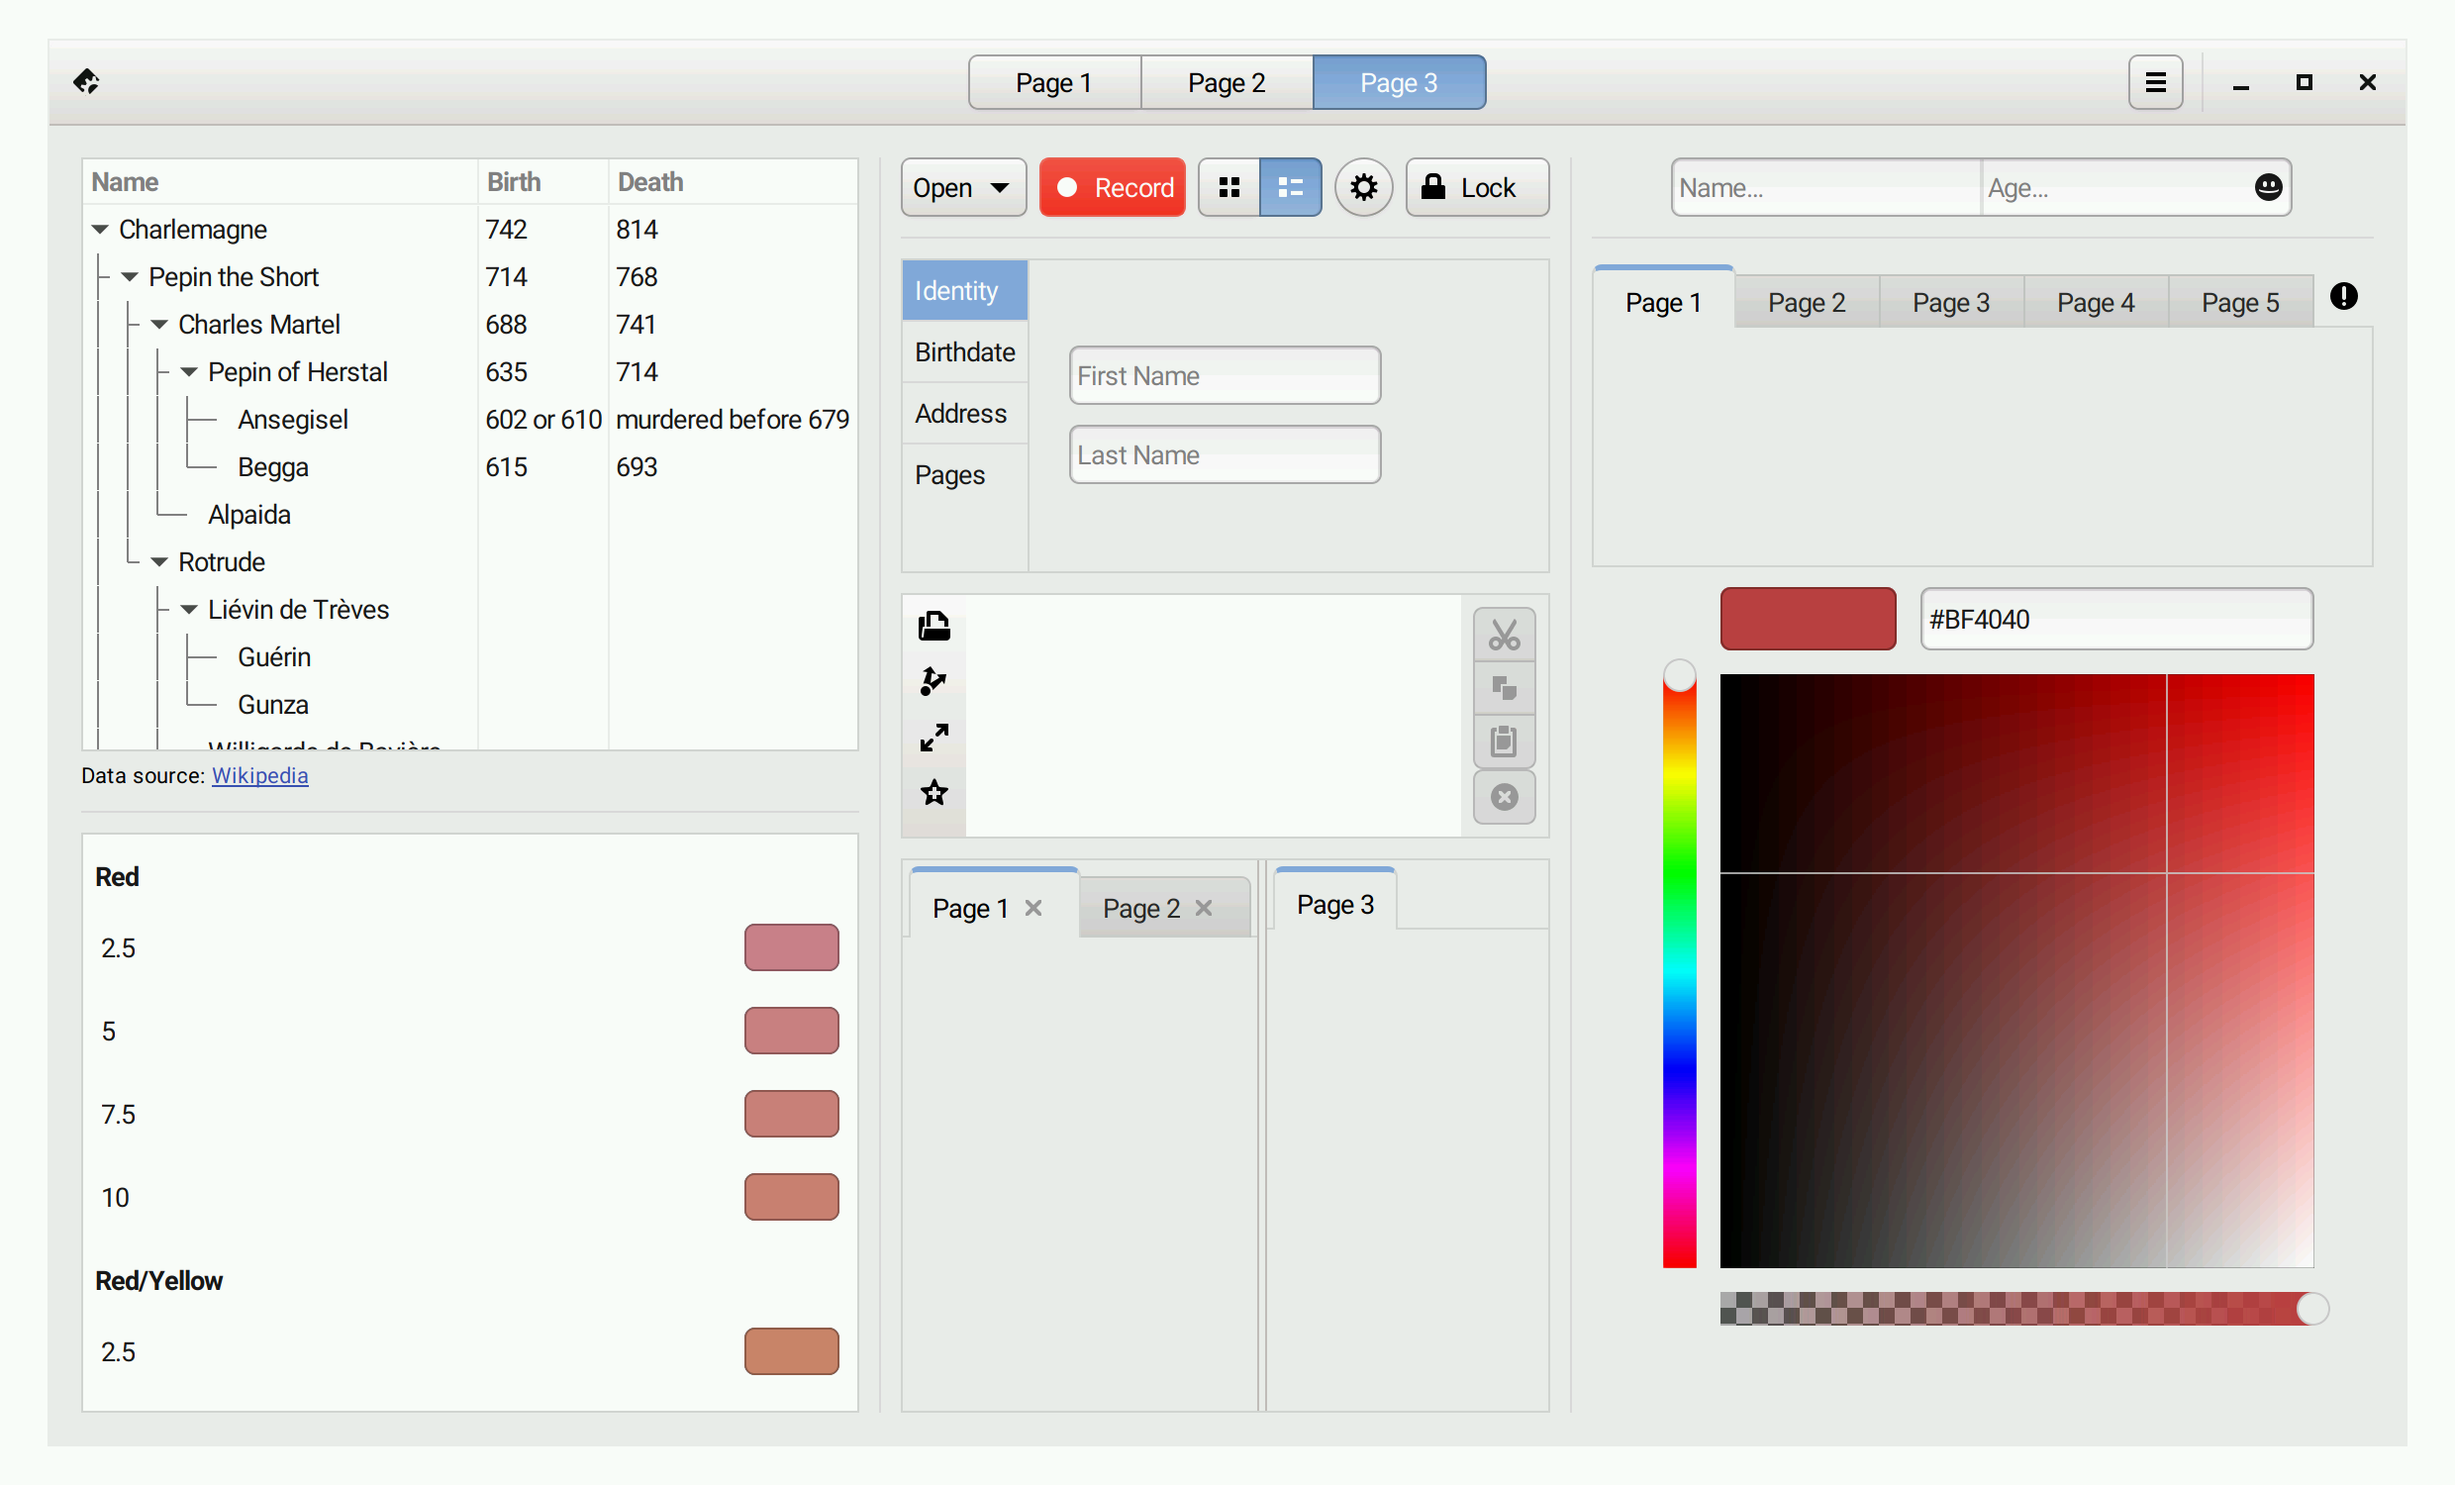
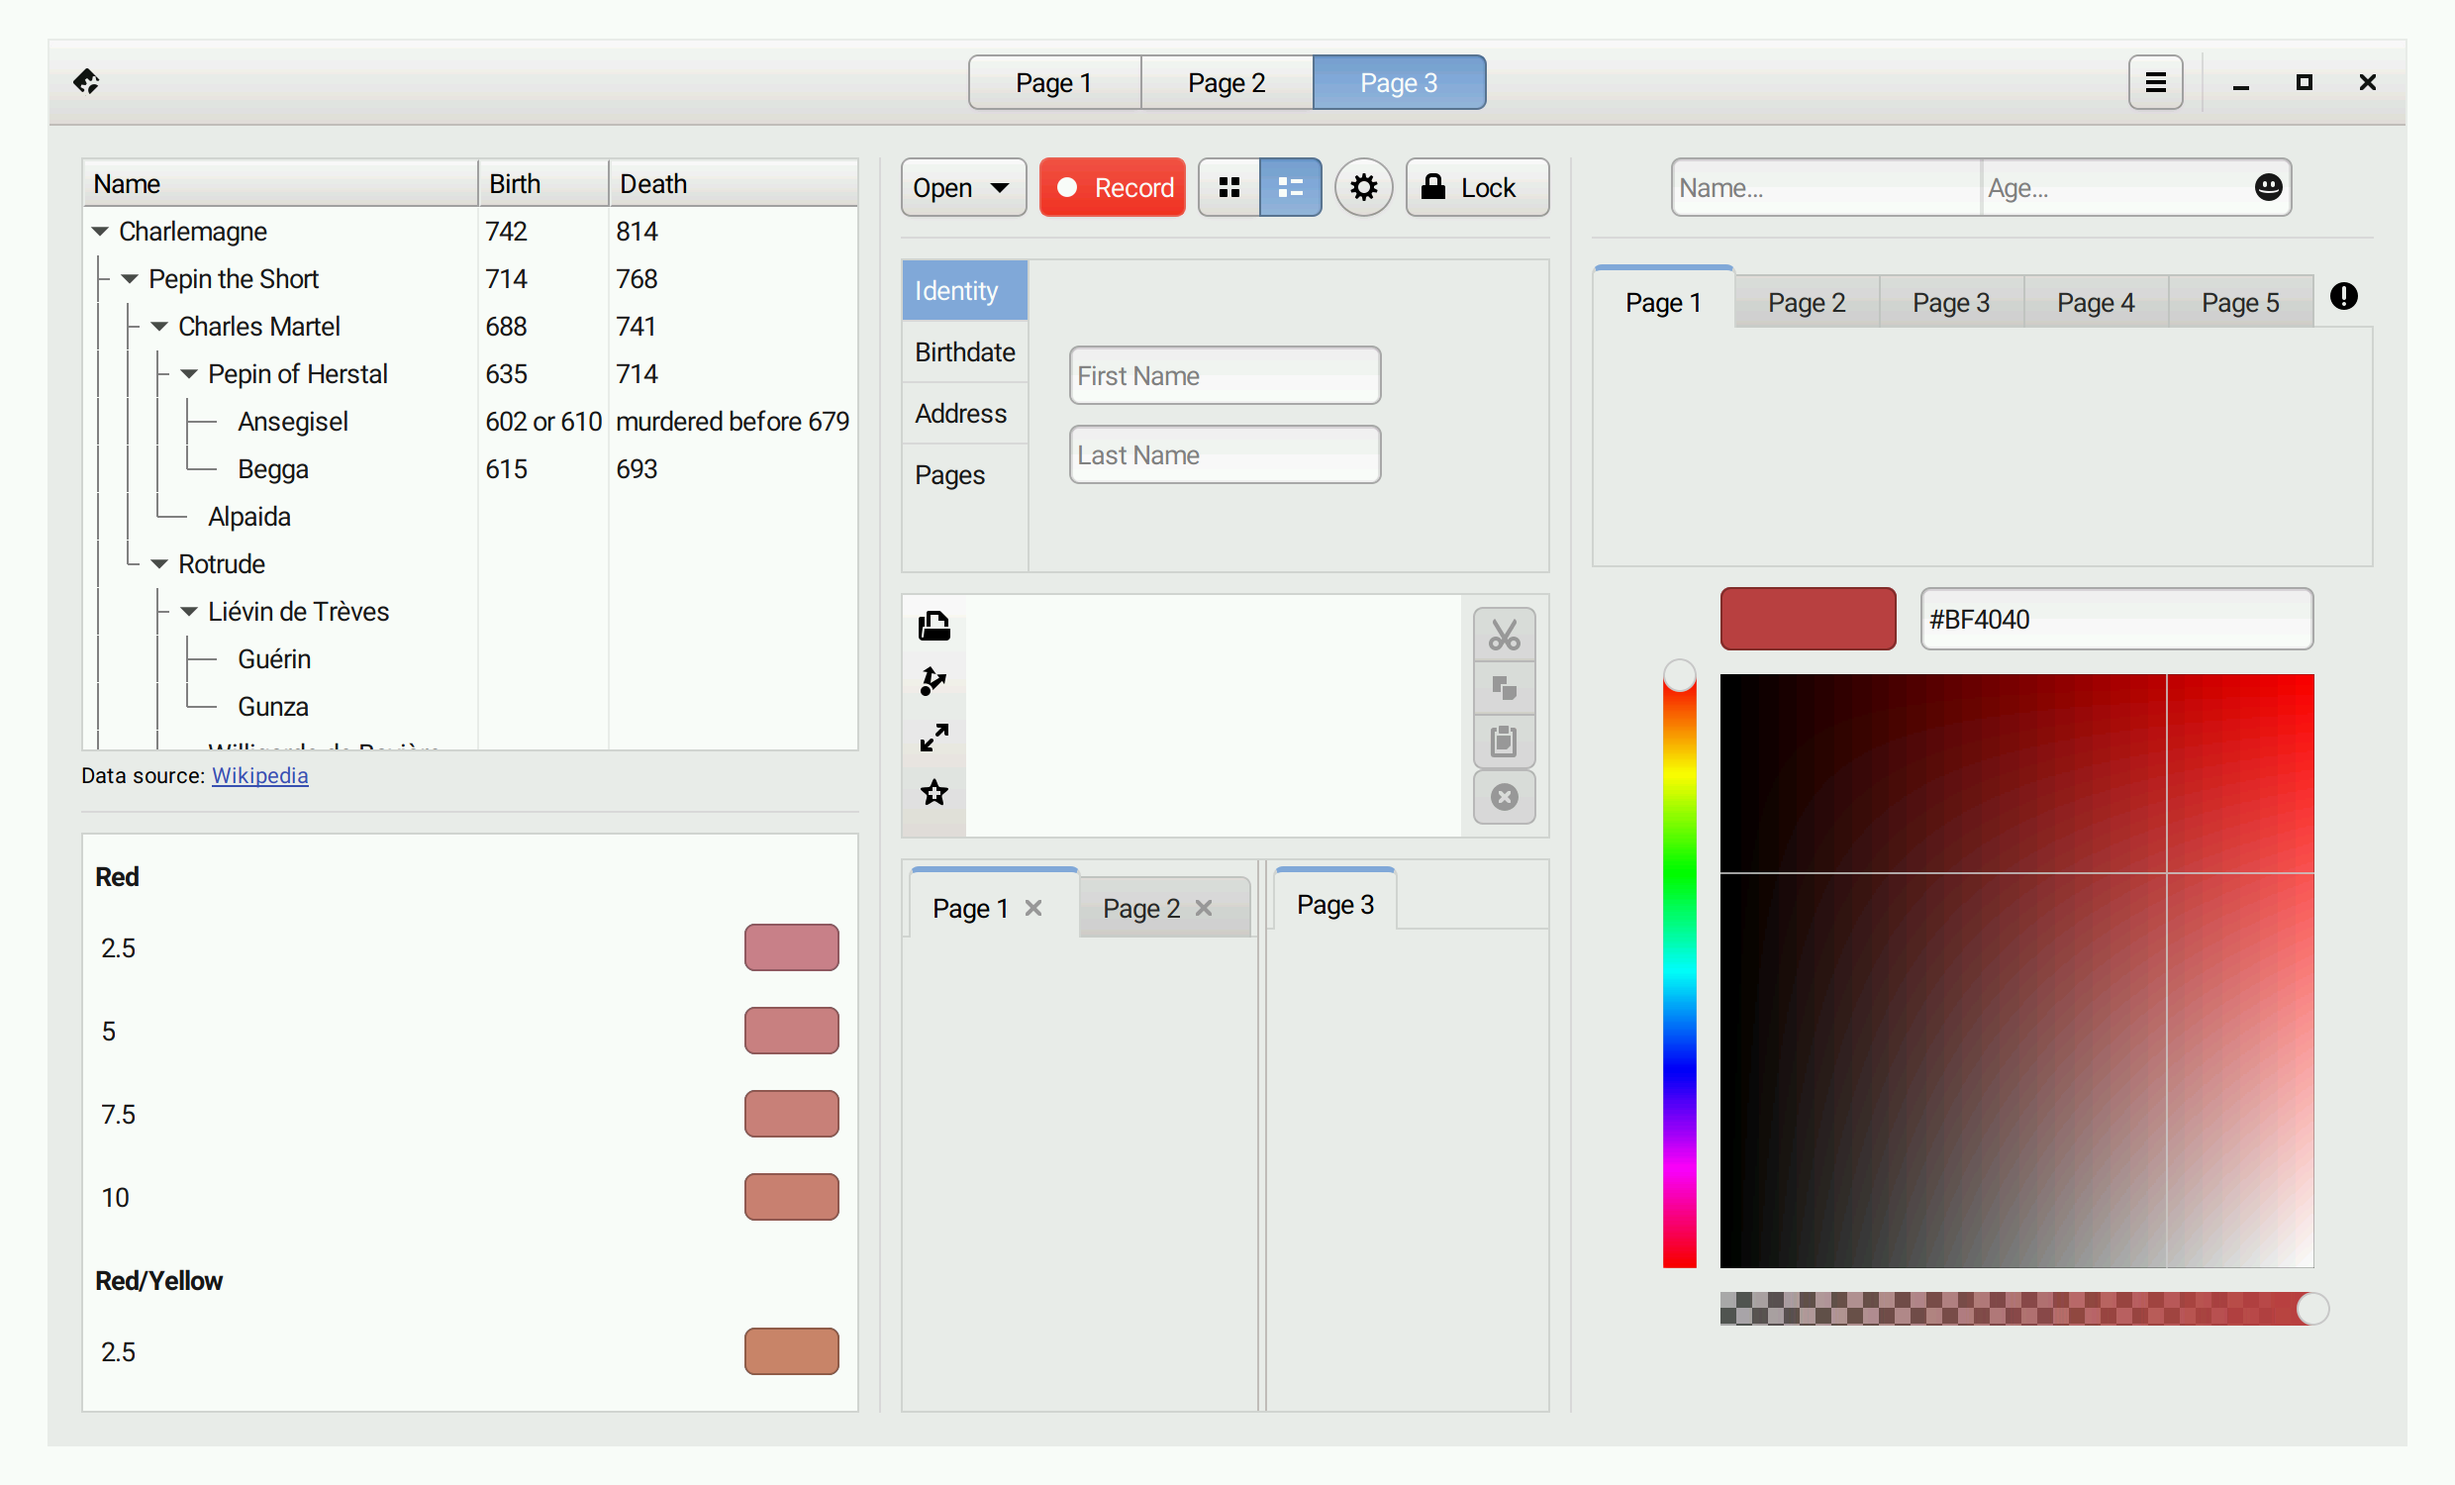
feat(gtk2, gtk3): change background color of column headers (#19)
* Change background color of column headers

* Updated screenshots

* Update screenshots (2)

* Use normal font weight in gtk+3 column headers

* Updated screenshots

* Use button style for column headers

* Fix borders

* Update gt+2 and old gtk+3 themes

* Fix color of path bar box

* Update screenshots

Changed region(s): [[0.031, 0.092, 0.3415, 0.4907], [0.1863, 0.2147, 0.3415, 0.3373]]

diff --git a/src/gtk-3.20/scss/widgets/_view.scss b/src/gtk-3.20/scss/widgets/_view.scss
@@ -68,16 +68,15 @@
     }
 
     %column_header_button {
+        @extend %button;
         padding: ($spacing - 2px) ($spacing + 1px);
         border-radius: 0;
-        background-image: none;
         text-shadow: none;
-        border-style: none solid solid none;
-        border-color: $bg_color;
+        border-top-color: transparent;
+        border-left-color: transparent;
 
         &:disabled {
-            border-color: $bg_color;
-            background-image: none;
+            color: mix($fg_color, $bg_color, .5);
         }
 
         &:backdrop {
@@ -247,20 +246,17 @@
 
         header {
             button {
-                $_column_header_color: mix($fg_color, $base_color, .5);
-
                 @extend %column_header_button;
 
-                color: $_column_header_color;
-                background-color: $base_color;
-                font-weight: bold;
+                font-weight: normal;
                 text-shadow: none;
                 box-shadow: none;
 
                 &:hover {
                     @extend %column_header_button;
 
-                    color: mix($_column_header_color, $fg_color, .5);
+                    border-top-color: $selected_borders_color;
+                    border-left-color: $selected_borders_color;
                     box-shadow: none;
                     transition: none; //I shouldn't need this
                 }
@@ -268,7 +264,8 @@
                 &:active {
                     @extend %column_header_button;
 
-                    color: $fg_color;
+                    border-top-color: $selected_borders_color;
+                    border-left-color: $selected_borders_color;
                     transition: none; //I shouldn't need this
                 }
             }

diff --git a/src/gtk-3.0/scss/widgets/_view.scss b/src/gtk-3.0/scss/widgets/_view.scss
@@ -190,6 +190,7 @@
 
 @include exports("columnheader") {
     column-header {
+        @extend %button;
         .button {
             &, &:active {
                 border-width: 0 1px 1px 0;
@@ -197,17 +198,13 @@
             }
 
             &, &:active, &:focus, &:active:focus {
-                border-color: shade($base_color, .9);
-                border-bottom-color: shade($base_color, .8);
-                background-color: shade($base_color, .97);
-                background-image: none;
+                border-color: shade($bg_color, .9);
+                border-bottom-color: shade($bg_color, .8);
             }
 
             &:hover, &:active:hover, &:hover:focus, &:active:hover:focus {
-                border-color: shade($base_color, .9);
-                border-bottom-color: shade($base_color, .8);
-                background-color: shade($base_color, .99);
-                background-image: none;
+                border-color: shade($bg_color, .9);
+                border-bottom-color: shade($bg_color, .8);
             }
 
             &:last-child .button { border-width: 0 0 1px; }

diff --git a/src/gtk-3.20/scss/widgets/_choosers.scss b/src/gtk-3.20/scss/widgets/_choosers.scss
@@ -168,7 +168,10 @@
             &:backdrop { border-top-color: $backdrop_borders_color; }
         }
 
-        #pathbarbox { border-bottom: 1px solid $bg_color; }
+        #pathbarbox {
+            border-bottom: 1px solid $borders_color;
+            background-color: $bg_color;
+        }
     }
 
     filechooserbutton:drop(active) {
